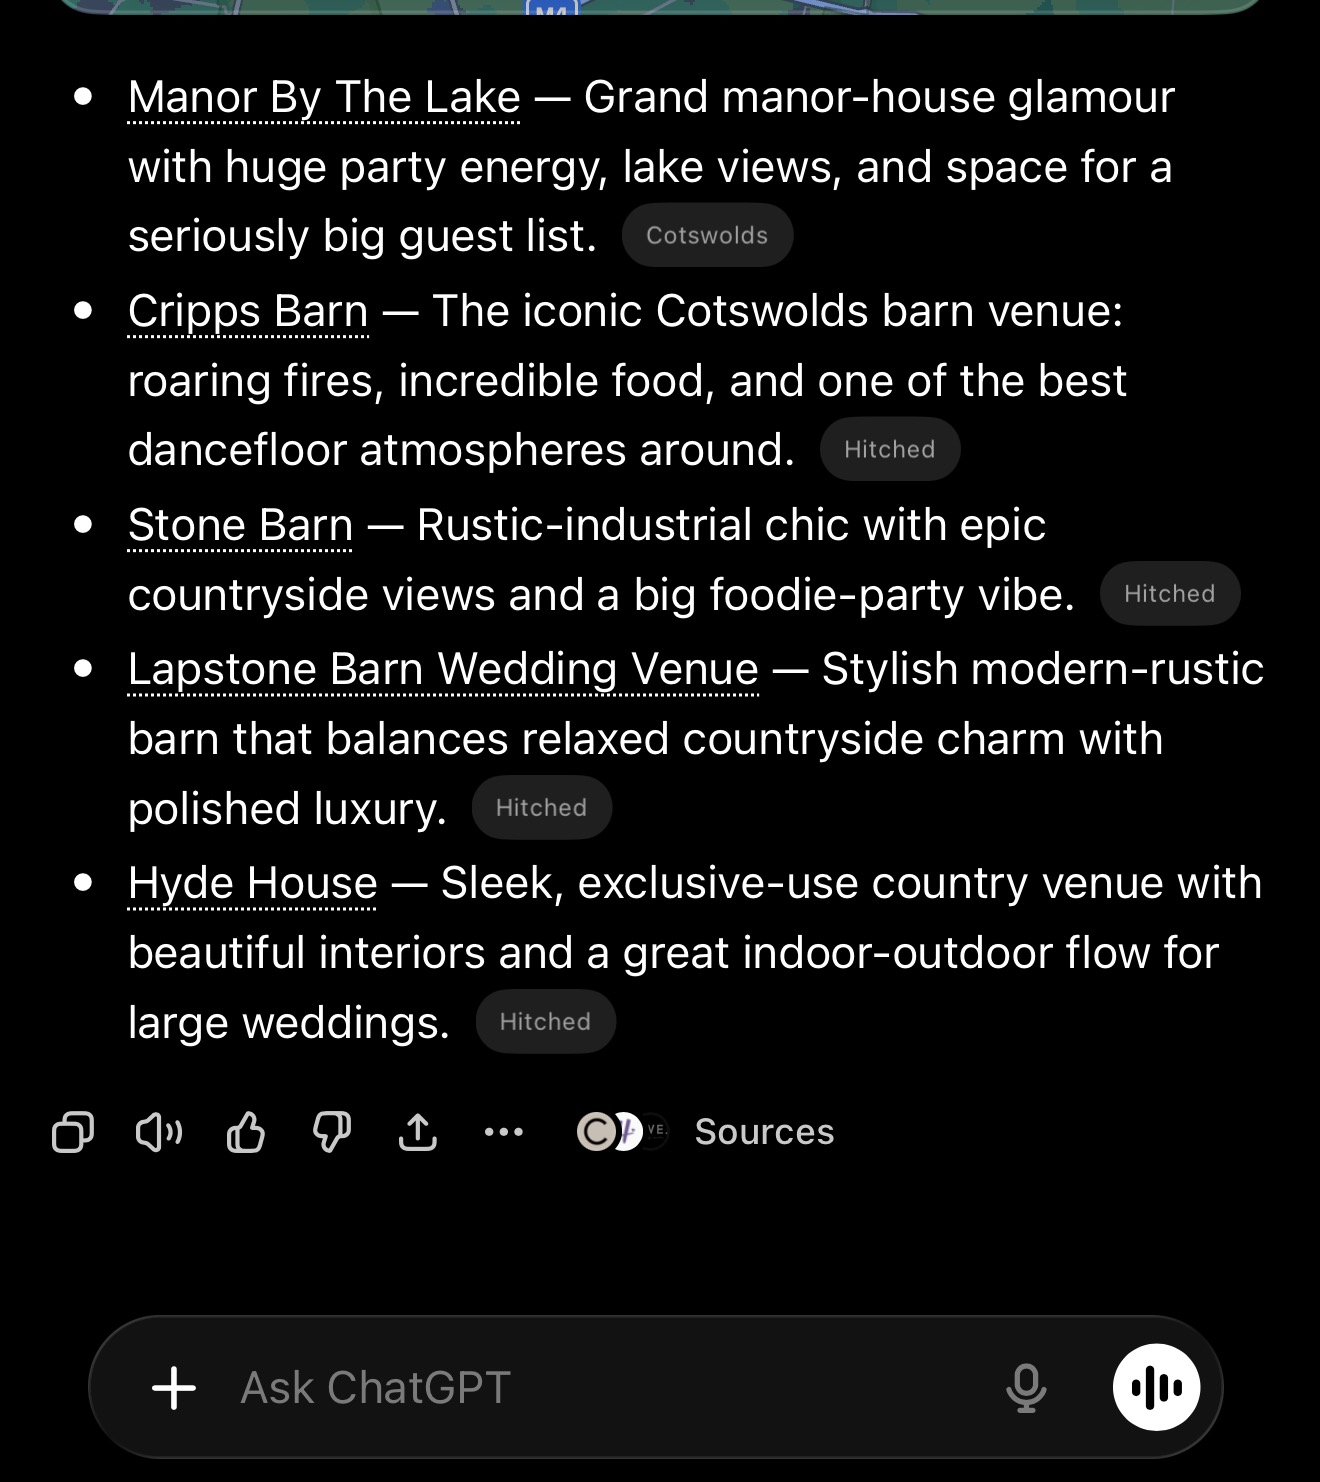
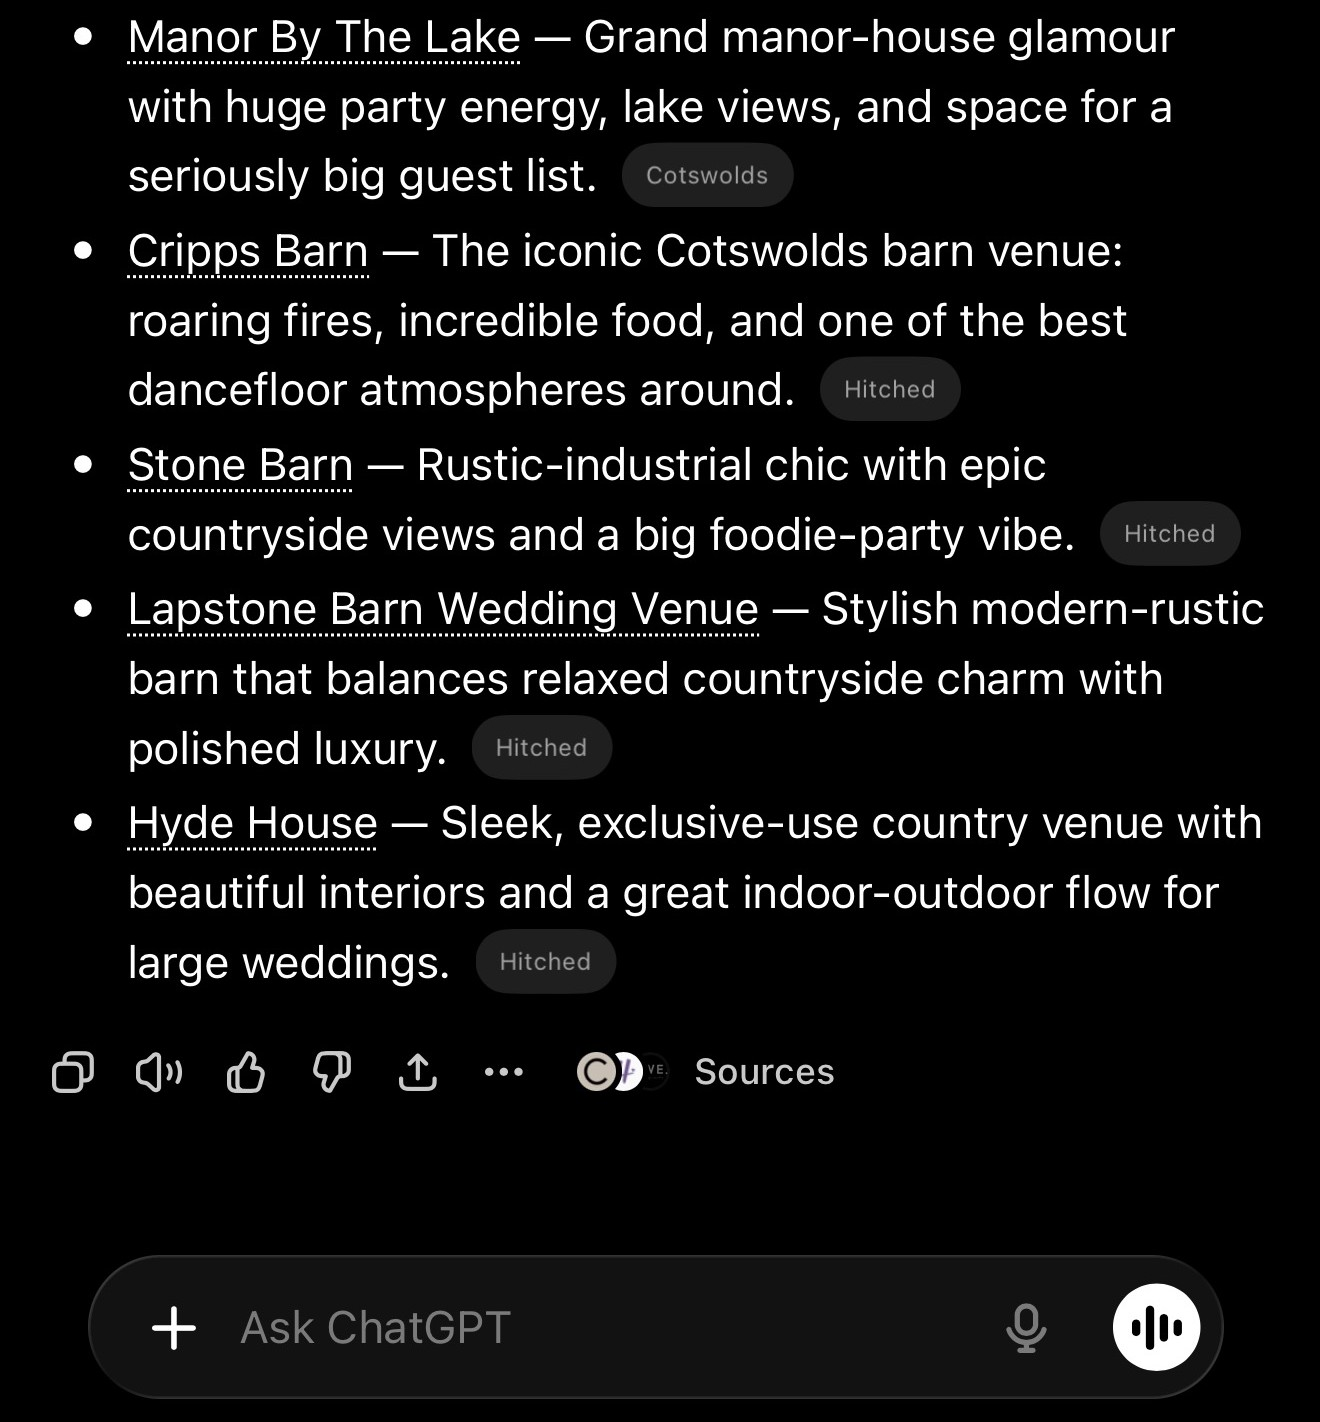
fix(web-intel): proof-block screenshot sizing + click-to-zoom lightbox
- Replace fixed 9:14 aspect ratio with uniform card height + object-fit:
  contain. Screenshots now display in full instead of cropping their
  sides (3 portraits sit centred, the landscape Claude table fits
  width-wise without cropping).
- Add click-to-zoom lightbox using native <dialog>: hover state shows
  zoom hint, click opens full-screen overlay with engine name caption,
  close via × button / backdrop click / Esc. Tracking fires per engine
  via trackLead('web_intelligence_multi_index_zoom_<engine>').
- Crop 60px off the top of chatgpt.jpg to remove a stray Google Maps
  sliver that was showing above "Manor By The Lake".

diff --git a/web-intelligence/index.html b/web-intelligence/index.html
@@ -2342,20 +2342,48 @@
     background: #000;
     border: 1px solid var(--border);
     margin-bottom: 1rem;
-    aspect-ratio: 9 / 14;
+    height: clamp(340px, 30vw, 460px);
     display: flex;
     align-items: center;
     justify-content: center;
     position: relative;
+    padding: 0.5rem;
+    cursor: zoom-in;
+    transition: border-color 0.2s, transform 0.2s;
   }
+  .mi-shot:hover { border-color: var(--design); transform: translateY(-1px); }
+  .mi-shot::after {
+    content: '⤢';
+    position: absolute;
+    top: 0.5rem;
+    right: 0.5rem;
+    width: 28px;
+    height: 28px;
+    display: flex;
+    align-items: center;
+    justify-content: center;
+    background: rgba(0,0,0,0.65);
+    border: 1px solid rgba(255,255,255,0.18);
+    border-radius: 6px;
+    color: rgba(255,255,255,0.85);
+    font-size: 0.85rem;
+    font-weight: 600;
+    z-index: 3;
+    pointer-events: none;
+    opacity: 0;
+    transition: opacity 0.2s;
+  }
+  .mi-shot:hover::after { opacity: 1; }
   .mi-shot img {
     display: block;
-    width: 100%;
-    height: 100%;
-    object-fit: cover;
-    object-position: top center;
+    max-width: 100%;
+    max-height: 100%;
+    width: auto;
+    height: auto;
+    object-fit: contain;
     position: relative;
     z-index: 2;
+    border-radius: 4px;
   }
   .mi-shot::before {
     content: 'screenshot pending';
@@ -2516,6 +2544,90 @@
       border-top: 1px solid var(--border); border-bottom: 1px solid var(--border);
       padding: 1.75rem 0;
     }
+  }
+
+  /* ============ MULTI-INDEX LIGHTBOX ============ */
+  .mi-lightbox {
+    width: 100vw;
+    height: 100vh;
+    max-width: 100vw;
+    max-height: 100vh;
+    margin: 0;
+    padding: 0;
+    border: 0;
+    background: rgba(8,8,12,0.96);
+    color: var(--text);
+    overflow: hidden;
+  }
+  .mi-lightbox::backdrop {
+    background: rgba(8,8,12,0.96);
+    backdrop-filter: blur(6px);
+    -webkit-backdrop-filter: blur(6px);
+  }
+  .mi-lightbox[open] {
+    display: flex;
+    flex-direction: column;
+    align-items: center;
+    justify-content: center;
+  }
+  .mi-lightbox img {
+    max-width: min(94vw, 1100px);
+    max-height: 88vh;
+    width: auto;
+    height: auto;
+    border-radius: 8px;
+    box-shadow: 0 24px 80px rgba(0,0,0,0.6);
+  }
+  .mi-lightbox-caption {
+    position: absolute;
+    top: 1.25rem;
+    left: 50%;
+    transform: translateX(-50%);
+    font-family: var(--mono);
+    font-size: 0.7rem;
+    font-weight: 600;
+    letter-spacing: 0.18em;
+    text-transform: uppercase;
+    color: var(--text-secondary);
+    padding: 0.55rem 1rem;
+    border: 1px solid var(--border);
+    border-radius: 999px;
+    background: rgba(0,0,0,0.4);
+    white-space: nowrap;
+  }
+  .mi-lightbox-close {
+    position: absolute;
+    top: 1.25rem;
+    right: 1.25rem;
+    width: 40px;
+    height: 40px;
+    display: flex;
+    align-items: center;
+    justify-content: center;
+    background: rgba(255,255,255,0.06);
+    border: 1px solid var(--border);
+    border-radius: 999px;
+    color: var(--text);
+    font-size: 1.25rem;
+    line-height: 1;
+    font-family: var(--body);
+    cursor: pointer;
+    transition: background 0.2s, border-color 0.2s;
+  }
+  .mi-lightbox-close:hover {
+    background: rgba(255,255,255,0.12);
+    border-color: var(--design);
+  }
+  .mi-lightbox-hint {
+    position: absolute;
+    bottom: 1.5rem;
+    left: 50%;
+    transform: translateX(-50%);
+    font-family: var(--mono);
+    font-size: 0.65rem;
+    letter-spacing: 0.18em;
+    text-transform: uppercase;
+    color: var(--text-muted);
   }
 </style>
 </head>
@@ -2793,6 +2905,13 @@
       </div>
 
     </div>
+
+    <dialog id="miLightbox" class="mi-lightbox" aria-label="Screenshot full view">
+      <span class="mi-lightbox-caption" id="miLightboxCaption"></span>
+      <button type="button" class="mi-lightbox-close" id="miLightboxClose" aria-label="Close full view">&times;</button>
+      <img id="miLightboxImg" src="" alt="">
+      <span class="mi-lightbox-hint">Click anywhere or press Esc to close</span>
+    </dialog>
   </section>
 
   <!-- ============ MATURITY CURVE ============ -->
@@ -3999,6 +4118,44 @@
         }
         setOpen(false);
       });
+    });
+  })();
+</script>
+
+<script>
+  // Multi-Index Proof Block — click-to-zoom lightbox
+  (function () {
+    var dlg = document.getElementById('miLightbox');
+    var dlgImg = document.getElementById('miLightboxImg');
+    var dlgCap = document.getElementById('miLightboxCaption');
+    var dlgClose = document.getElementById('miLightboxClose');
+    if (!dlg || !dlgImg || typeof dlg.showModal !== 'function') return;
+
+    document.querySelectorAll('#multi-index-proof .mi-shot').forEach(function (shot) {
+      shot.addEventListener('click', function () {
+        var img = shot.querySelector('img');
+        if (!img || !img.getAttribute('src')) return;
+        var card = shot.closest('.mi-card');
+        var engineName = card ? card.querySelector('.mi-engine-name') : null;
+        dlgImg.src = img.src;
+        dlgImg.alt = img.alt || '';
+        if (dlgCap) dlgCap.textContent = engineName ? engineName.textContent : '';
+        dlg.showModal();
+        if (typeof trackLead === 'function') {
+          trackLead('web_intelligence_multi_index_zoom_' + (engineName ? engineName.textContent.toLowerCase() : 'unknown'));
+        }
+      });
+    });
+
+    if (dlgClose) dlgClose.addEventListener('click', function () { dlg.close(); });
+    dlg.addEventListener('click', function (e) {
+      // close when clicking the backdrop or the dialog itself (but not the close button or image)
+      if (e.target === dlg || e.target === dlgImg || e.target.classList.contains('mi-lightbox-hint') || e.target.classList.contains('mi-lightbox-caption')) {
+        dlg.close();
+      }
+    });
+    dlg.addEventListener('close', function () {
+      dlgImg.src = '';
     });
   })();
 </script>